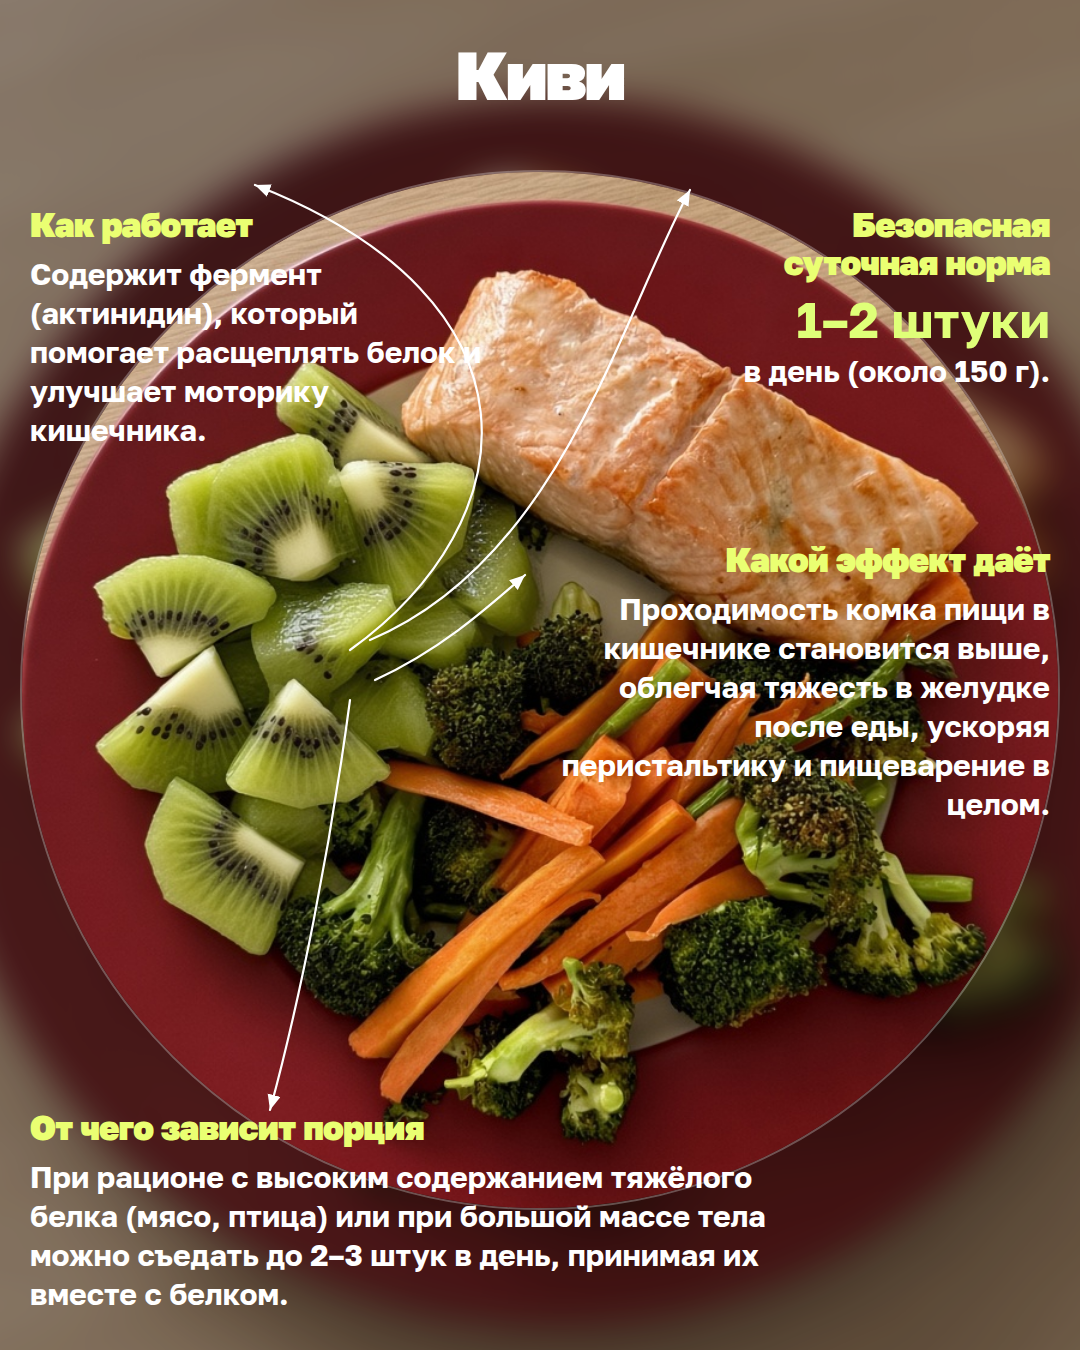
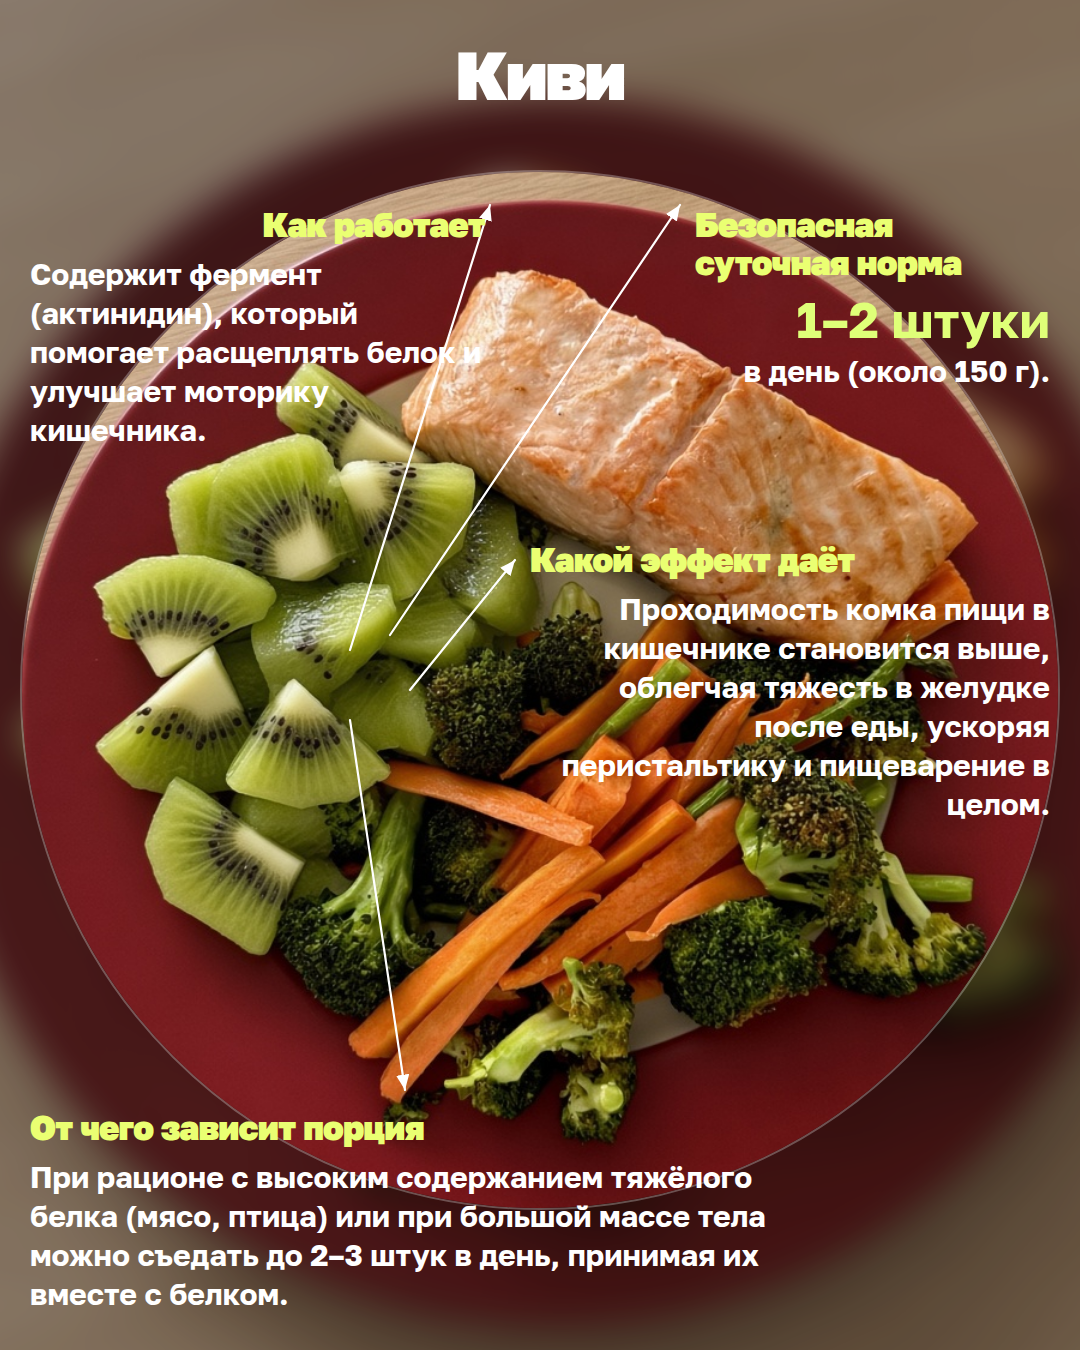
Replace curved connectors with straight arrows

diff --git a/instagram-fruits-zhkt/slide-02-kiwi.html b/instagram-fruits-zhkt/slide-02-kiwi.html
@@ -103,12 +103,14 @@
       width: 455px;
       text-align: left;
     }
+    .work h2 { text-align: right; }
     .norm {
       top: 205px;
       right: 30px;
       width: 355px;
       text-align: right;
     }
+    .norm h2 { text-align: left; }
     .norm strong {
       display: block;
       color: #dfff78;
@@ -122,6 +124,7 @@
       width: 520px;
       text-align: right;
     }
+    .effect h2 { text-align: left; }
     .portion {
       left: 30px;
       bottom: 36px;
@@ -147,10 +150,10 @@
         </marker>
       </defs>
       <!-- Все стрелки выходят из зоны киви на тарелке -->
-      <path d="M350 650 C 530 520, 550 300, 255 185" fill="none" stroke="#fff" stroke-width="2.2" stroke-linecap="round" marker-end="url(#ah)"/>
-      <path d="M370 640 C 560 560, 620 320, 690 190" fill="none" stroke="#fff" stroke-width="2.2" stroke-linecap="round" marker-end="url(#ah)"/>
-      <path d="M375 680 C 440 650, 485 610, 525 575" fill="none" stroke="#fff" stroke-width="2.2" stroke-linecap="round" marker-end="url(#ah)"/>
-      <path d="M350 700 C 330 850, 300 1000, 270 1110" fill="none" stroke="#fff" stroke-width="2.2" stroke-linecap="round" marker-end="url(#ah)"/>
+      <line x1="350" y1="650" x2="490" y2="205" stroke="#fff" stroke-width="2.2" stroke-linecap="round" marker-end="url(#ah)"/>
+      <line x1="390" y1="635" x2="680" y2="205" stroke="#fff" stroke-width="2.2" stroke-linecap="round" marker-end="url(#ah)"/>
+      <line x1="410" y1="690" x2="515" y2="560" stroke="#fff" stroke-width="2.2" stroke-linecap="round" marker-end="url(#ah)"/>
+      <line x1="350" y1="720" x2="405" y2="1090" stroke="#fff" stroke-width="2.2" stroke-linecap="round" marker-end="url(#ah)"/>
     </svg>
 
     <section class="callout work">
